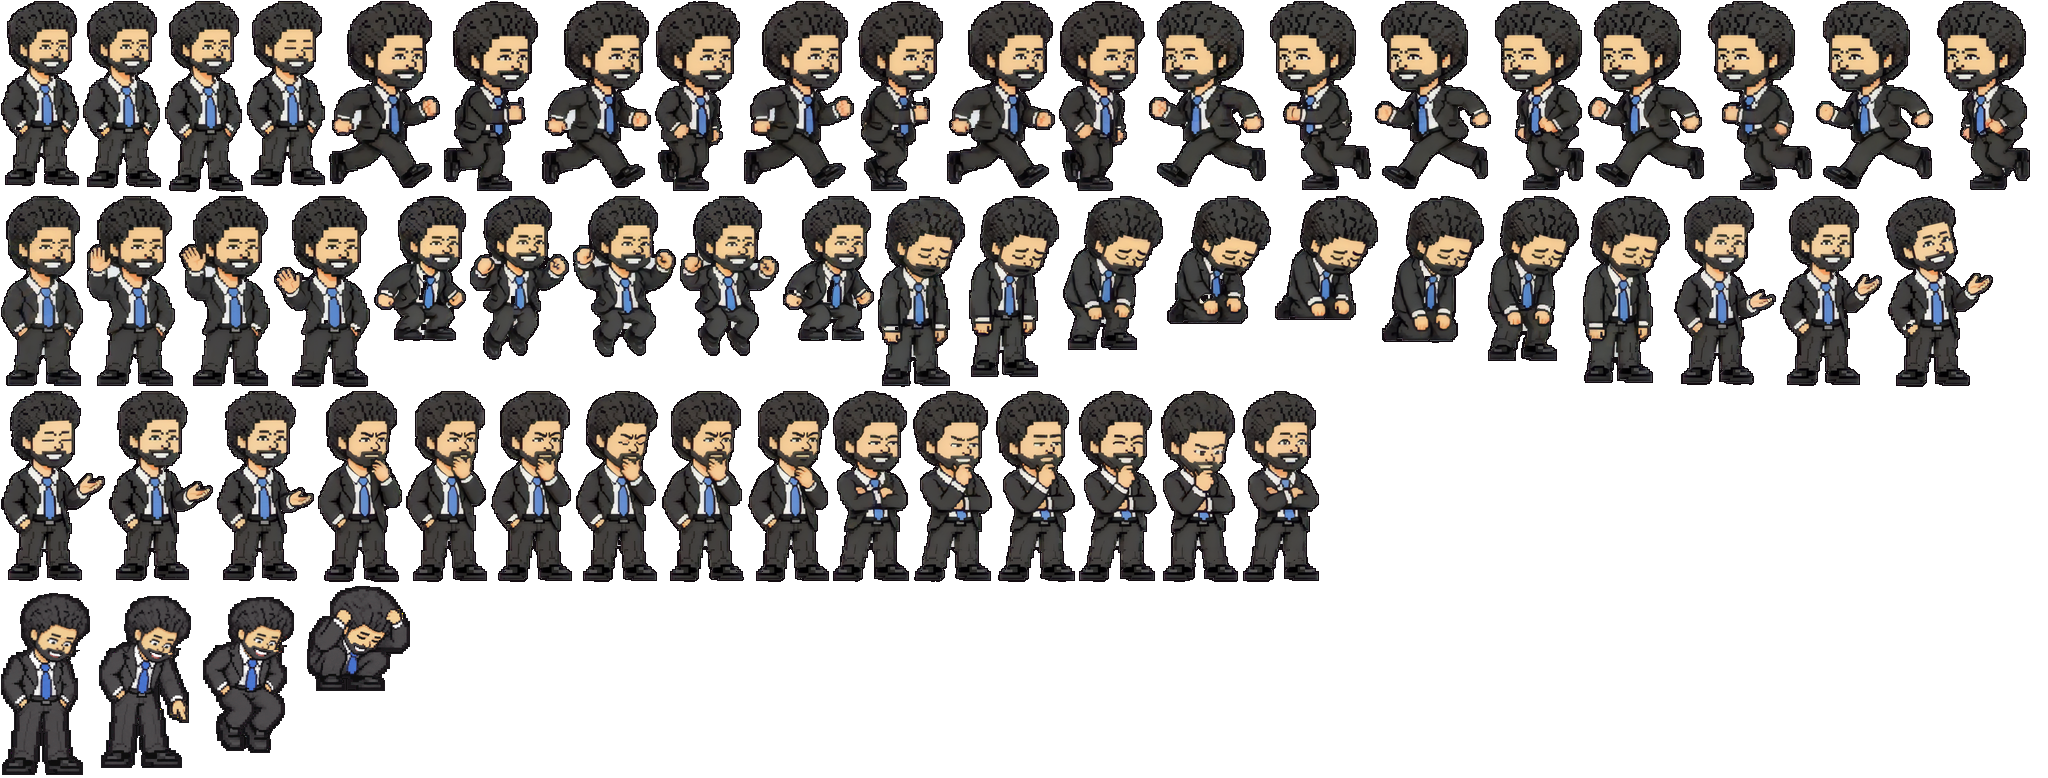
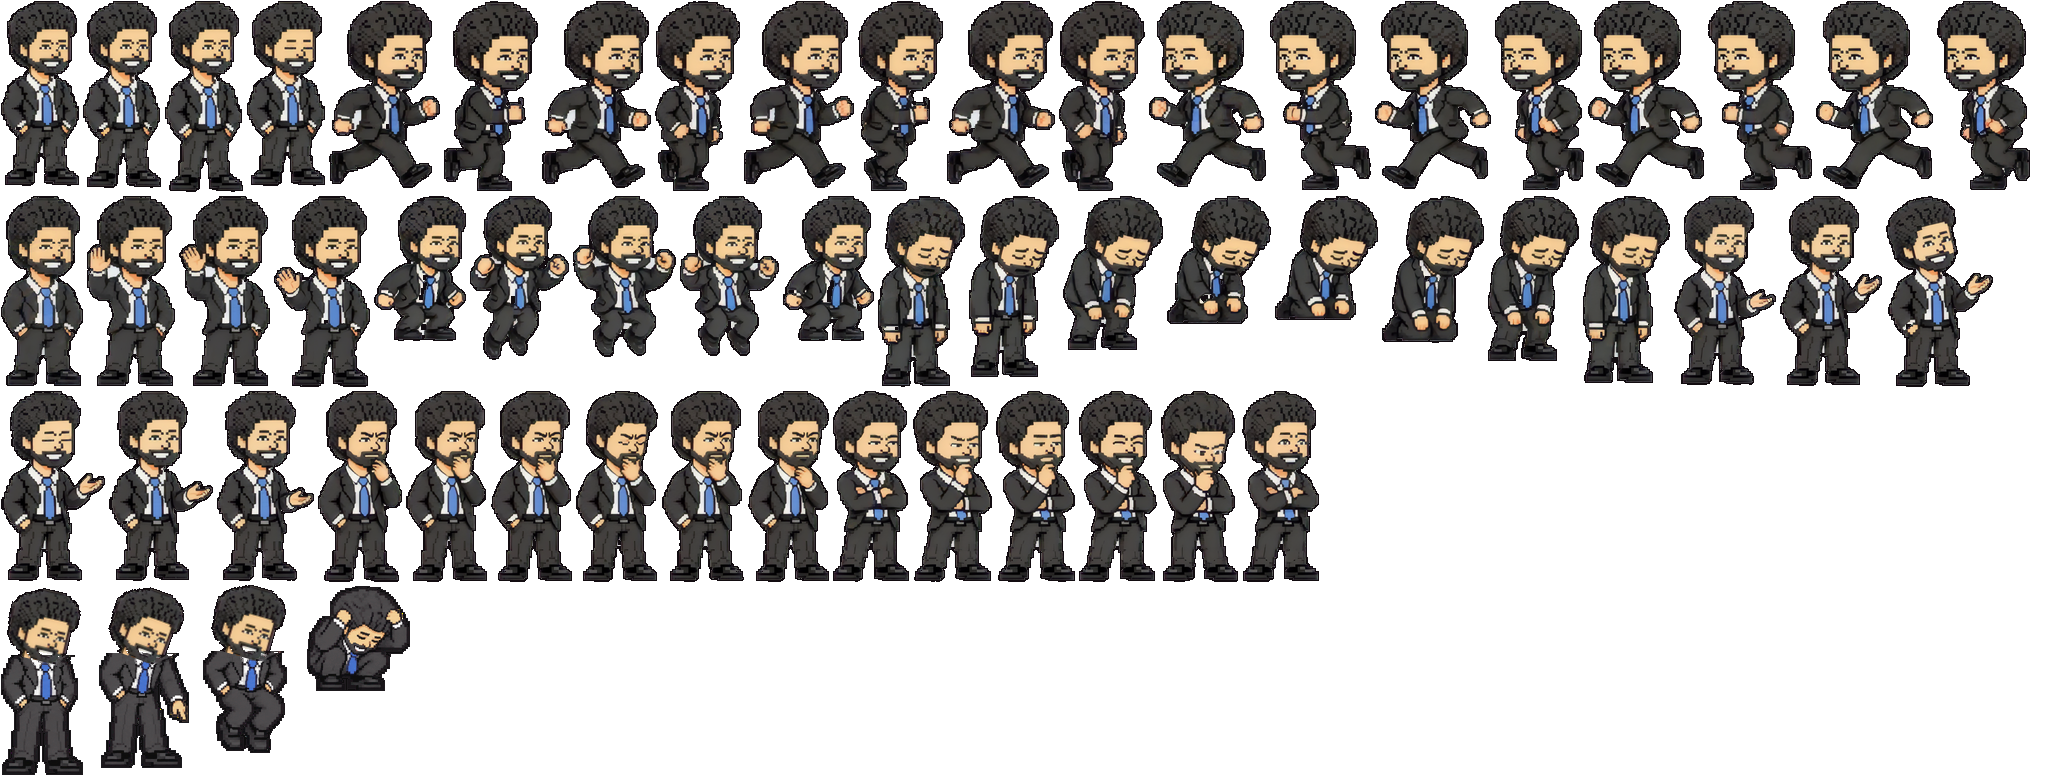
Runner sheet: rebuild the three look frames with his own head
Each look frame keeps its body and pose; the off-model head is replaced by the standing frame's
head, tipped forward about the chin, with the leftovers of the old face removed. Frame
rectangles are unchanged.

Claude-Session: https://claude.ai/code/session_01ErLBscHX5AiUxvDiyAyUb4

Changed region(s): [[0.0, 0.7404, 0.1562, 0.8638]]

diff --git a/scripts/redraw-look-frames.py b/scripts/redraw-look-frames.py
@@ -1,0 +1,108 @@
+"""The three "look" frames of the runner sheet were drawn with a different face. This rebuilds them
+from the character's own art: each frame keeps its body and pose, and its head is replaced by the
+head of the standing frame, tilted down towards what he is looking at. Nothing is drawn by hand.
+Frame rectangles are unchanged. Run once, on a sheet that still has the old heads.
+
+    pip install pillow numpy scipy opencv-python-headless
+    python scripts/redraw-look-frames.py
+"""
+import json
+import math
+
+import cv2
+import numpy as np
+from PIL import Image
+from scipy import ndimage as ndi
+
+SRC = "public/runner/assets/"
+UP = 4
+# degrees the head tips forward, and a nudge (x, y) in sheet pixels to seat it on the collar
+LOOK = {"look_0": (13, (-6, -5)), "look_1": (20, (-6, -5)), "look_2": (16, (-7, -5))}
+
+sheet = np.array(Image.open(SRC + "hero.png").convert("RGBA"))
+frames = json.load(open(SRC + "hero.json"))["frames"]
+
+
+def skin_of(rgba):
+    r, g, b = (rgba[..., i].astype(int) for i in range(3))
+    return (rgba[..., 3] > 128) & (r > 150) & (r > g) & (g > b) & (r - b > 40)
+
+
+def head_of(cell):
+    """(mask, chin row, centre x at the chin): everything joined to the crown above the bottom of
+    the face."""
+    op = cell[..., 3] > 128
+    lab, n = ndi.label(skin_of(cell))
+    face = lab == (1 + np.argmax(ndi.sum(lab > 0, lab, range(1, n + 1))))
+    chin = int(np.nonzero(face.any(1))[0][-1]) + 3
+    above = op.copy(); above[chin:] = False
+    lab, n = ndi.label(above)
+    head = lab == (1 + np.argmax(ndi.sum(above, lab, range(1, n + 1))))
+    cols = np.nonzero(head[chin - 1])[0]
+    return head, chin, float(cols.mean())
+
+
+def up(a, interp=cv2.INTER_NEAREST):
+    return cv2.resize(a, (a.shape[1] * UP, a.shape[0] * UP), interpolation=interp)
+
+
+x0, y0, w0, h0 = frames["idle_0"][:4]
+idle = sheet[y0:y0 + h0, x0:x0 + w0].copy()
+ihead, ichin, icx = head_of(idle)
+# his beard and the bit of neck under it hang below the chin line: take them with the head
+below = (idle[..., 3] > 128) & (np.arange(h0)[:, None] >= ichin) & (np.arange(h0)[:, None] < ichin + 9)
+dark_or_skin = (idle[..., :3].max(-1) < 110) | skin_of(idle)
+lab, n = ndi.label(ihead | (below & dark_or_skin & (np.abs(np.arange(w0)[None, :] - icx) < 22)))
+ihead = lab == lab[np.nonzero(ihead)[0][0], np.nonzero(ihead)[1][0]]
+src_a = up(ihead.astype(np.float32))
+src = up(idle[..., :3].astype(np.float32)) * src_a[..., None]
+
+for name, (deg, (nx, ny)) in LOOK.items():
+    x, y, w, h = frames[name][:4]
+    cell = sheet[y:y + h, x:x + w].copy()
+    head, chin, cx = head_of(cell)
+    # 1. take the old head off, and with it the old beard hanging under the chin line
+    rows = np.arange(h)[:, None]
+    old_beard = (cell[..., 3] > 128) & (rows >= chin) & (rows < chin + 10) & (cell[..., :3].max(-1) < 70) & (np.abs(np.arange(w)[None, :] - cx) < 20)
+    # ...and what is left of the old face below that line: skin, the red of the mouth, and teeth
+    # (white that is not part of the shirt)
+    r_, g_, b_ = (cell[..., i].astype(int) for i in range(3))
+    near = (rows >= chin - 2) & (rows < chin + 18) & (np.abs(np.arange(w)[None, :] - cx) < 42) & (cell[..., 3] > 128)
+    red = (r_ > 130) & (g_ < 115) & (b_ < 115)
+    white = (cell[..., :3].min(-1) > 175) & (cell[..., 3] > 128)
+    teeth = white & ndi.binary_dilation(red, iterations=2)  # white touching the mouth, not the collar
+    scraps = near & (skin_of(cell) | red | teeth)
+    scraps = ndi.binary_dilation(scraps, iterations=1) & near & ~(white & ~teeth)
+    # a scrap lying on the suit becomes suit; one sticking out above the shoulder just goes
+    sl, sn = ndi.label(scraps)
+    on_body = np.zeros_like(scraps)
+    solid = (cell[..., 3] > 128) & ~head & ~scraps
+    for i in range(1, sn + 1):
+        m = sl == i
+        rim = ndi.binary_dilation(m, iterations=2) & ~m
+        if solid[rim].mean() > 0.6:
+            on_body |= m
+    gone = head | old_beard | scraps
+    body_rgb = cell[..., :3].copy()
+    hole = old_beard | on_body | (head & (rows > chin - 2))  # where the collar and shoulders continue underneath
+    body_rgb = cv2.inpaint(np.ascontiguousarray(np.where(gone[..., None], 0, body_rgb).astype(np.uint8)), gone.astype(np.uint8), 2, cv2.INPAINT_TELEA)
+    body_a = ((cell[..., 3] > 128) & ~gone) | hole
+    # 2. his real head, tipped forward about the chin and seated where the old one was
+    t = math.radians(deg)
+    c, s = math.cos(t), math.sin(t)
+    px, py = icx * UP, ichin * UP
+    qx, qy = (cx + nx) * UP, (chin + ny) * UP
+    M = np.float32([[c, -s, qx - c * px + s * py], [s, c, qy - s * px - c * py]])
+    size = (w * UP, h * UP)
+    ha = cv2.warpAffine(src_a, M, size, flags=cv2.INTER_LINEAR)
+    hc = cv2.warpAffine(src, M, size, flags=cv2.INTER_LINEAR)
+    out_a = ha + up(body_a.astype(np.float32)) * (1 - ha)
+    out = hc + up(body_rgb.astype(np.float32)) * up(body_a.astype(np.float32))[..., None] * (1 - ha)[..., None]
+    small_a = cv2.resize(out_a, (w, h), interpolation=cv2.INTER_AREA)
+    small = cv2.resize(out, (w, h), interpolation=cv2.INTER_AREA) / np.maximum(small_a[..., None], 1e-3)
+    cell[..., :3] = np.clip(small, 0, 255).astype(np.uint8)
+    cell[..., 3] = np.where(small_a > 0.5, 255, 0)
+    sheet[y:y + h, x:x + w] = cell
+    print(f"{name}: head tipped {deg} deg, seated at ({cx:.0f}, {chin})")
+
+Image.fromarray(sheet).save(SRC + "hero.png", optimize=True)

diff --git a/AGENTS.md b/AGENTS.md
@@ -45,4 +45,4 @@ This version has breaking changes — APIs, conventions, and file structure may 
 - The hero character canvas spans the full page width and reaches the top of the page (`padL`, `padR`, tall `base`), at `z-20` above the header, so he is never clipped when carried or thrown. World x = 0 is still the headline's left edge.
 - Hero character slapstick: he can be picked up at any time, the intro included (dropped mid-intro he goes back for the coins via a `resume` step). Carried, he hangs from the pointer by the back of his collar as a pendulum (`gripOf`, `drawCarried`), with a custom pinch cursor. A fall from the hand ends in a superhero landing then sore knees (`jump_0`, `failed_1..3`), or about a third of the time wedged between two words of the first line. Pointer over his face: he ducks (`duck_0`); under his feet: he jumps; approaching: about a third of the time he runs away. These frames come from the same traced sheet; `FAILED_HEAD` normalises their head size.
 - Stuck-between-words gag: the first-line words are `[data-hero-w]` inline-block spans so they can be moved; while he is wedged they are pushed apart and tilted per frame (`pry`/`unpry`), he is clipped to the gap, and his face is always annoyed (`review_2` deadpan, `thinking_1/2` glare, `thinking_3` strain, never the smiling jump frames). Sequence: thud, "...", anger mark, heave and slip, heave and out, then a glare back at the gap.
-- `scripts/fix-runner-tones.py` brings the off-model `look_*` and `duck_0` frames of `public/runner/assets/hero.png` in line with the rest: dark tones, skin tone, and (look frames) head size. Already applied; do not rerun it on the fixed sheet, the head shrink is not idempotent. The face drawing style of the look frames still differs: that needs new art.
+- `scripts/fix-runner-tones.py` brings the off-model `look_*` and `duck_0` frames of `public/runner/assets/hero.png` in line with the rest: dark tones, skin tone, and (look frames) head size. Already applied; do not rerun it on the fixed sheet, the head shrink is not idempotent. The look frames were then rebuilt by `scripts/redraw-look-frames.py`: each keeps its body, and its head is the standing frame's own head tipped forward (also already applied; run it only on a sheet that still has the old heads).
